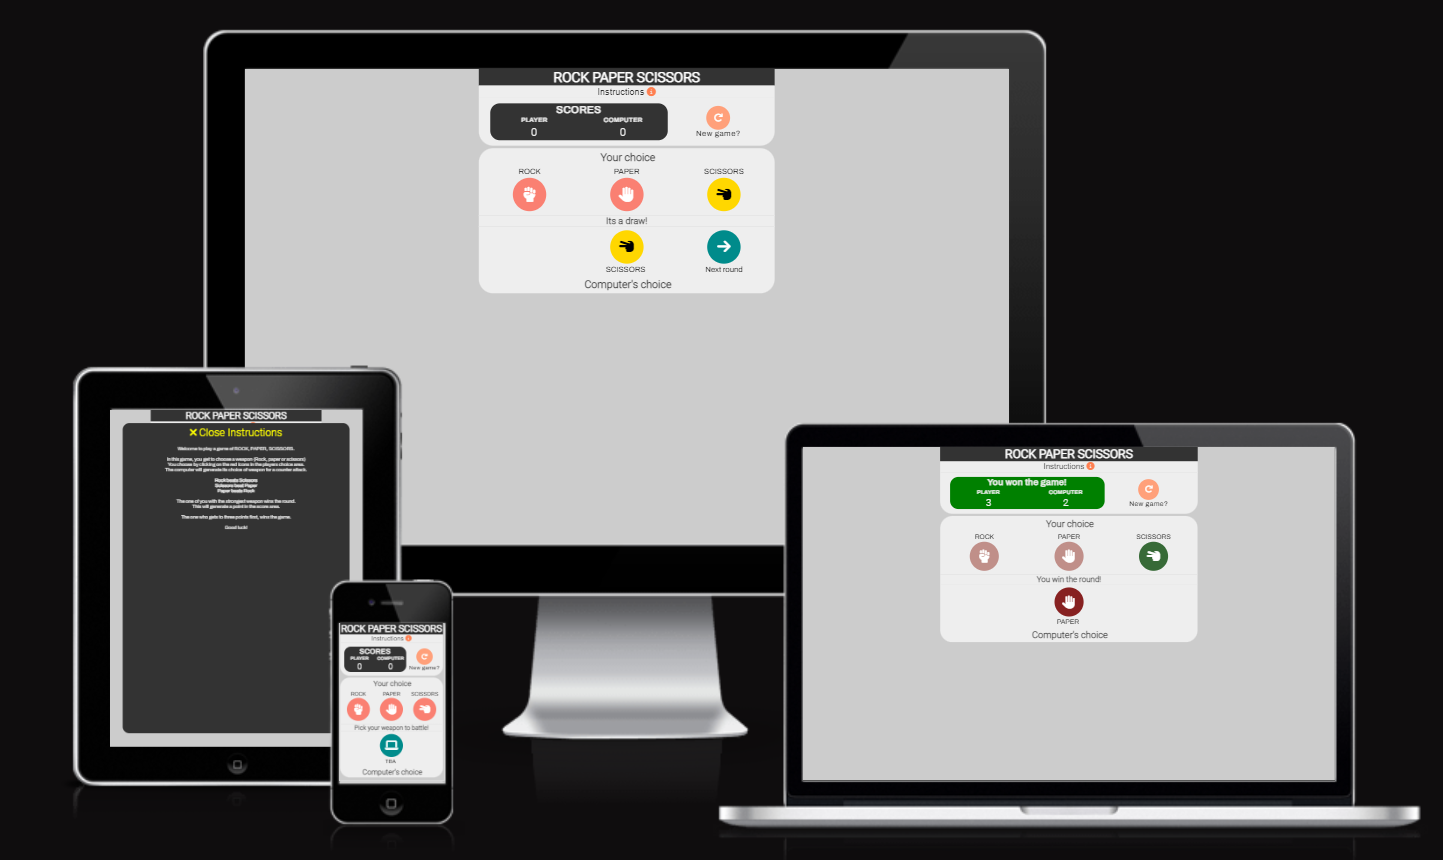
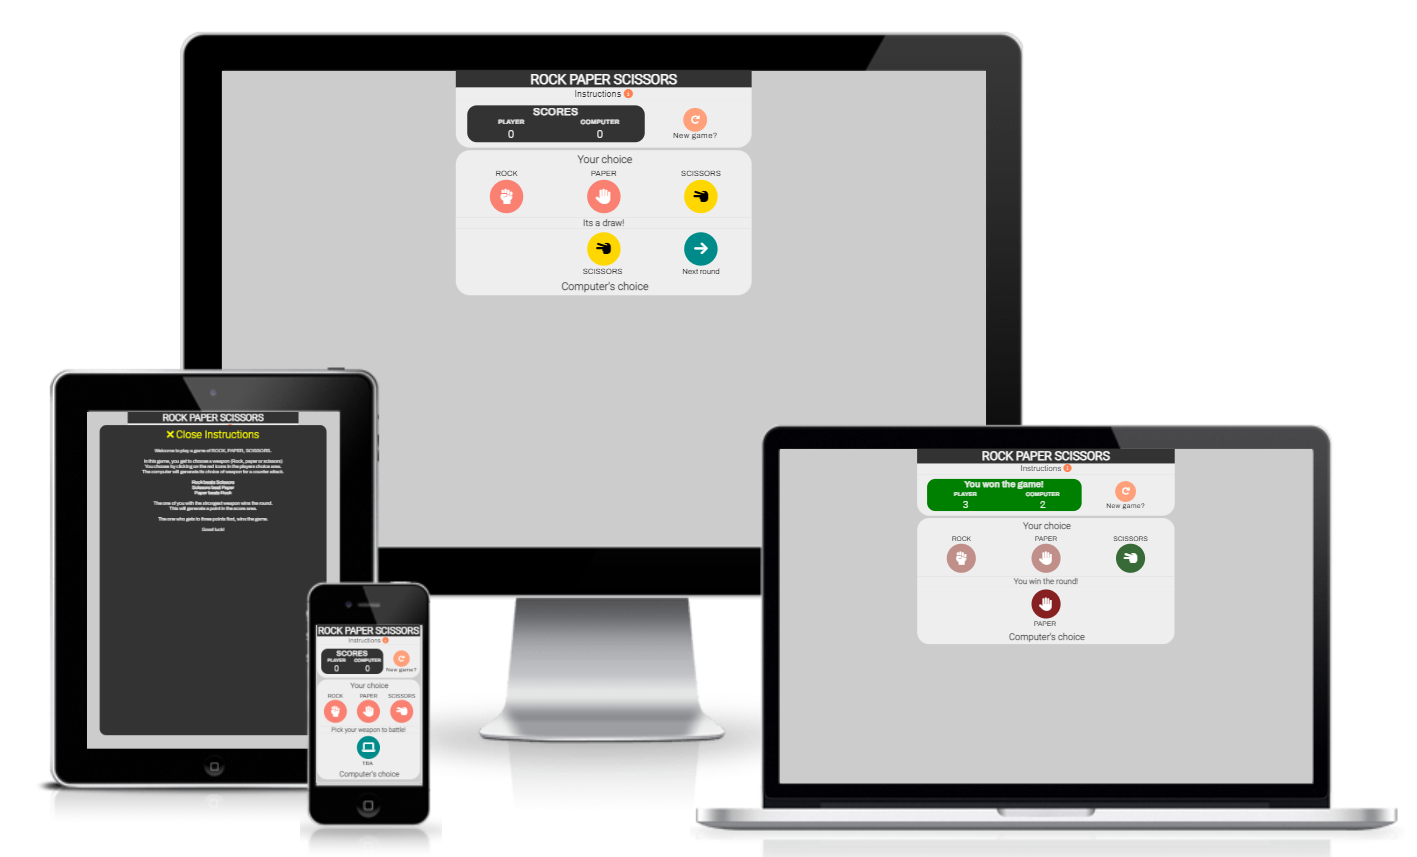
Added section content to readme.

diff --git a/README.md b/README.md
@@ -1,49 +1,55 @@
-# Love Running
+# Rock Paper Scissors
 
-In this section, you will include one or two paragraphs providing an overview of your project. Essentially, this part is your sales pitch. At this stage, you should have a name for your project so use it! Don’t introduce the project as a Portfolio project for the diploma. In this section, describe what the project hopes to accomplish, who it is intended to target and how it will be useful to the target audience. 
+Rock paper scissors is a site that aims to provide users with a cheat safe way of playing rock paper scissors. Mental games and trying to cheat through delaying the reveal of the chosen weapon are effectively eradicated when playing a pseudo-random algorithm. Users who need to settle a score or make a choice can use the website and rely on true 50/50 probability, while still having a fun and colored experience.
 
-For example; Love Running is a site that hopes to help keep people motivated to meet up for runs on a regular basis in Dublin, Ireland. The site will be targeted toward runners who are looking for a way to socialise and keep themselves fit. Love Running will be useful for runners to see exactly when and where they should be to join the running club. 
+With the sites colorful responses and screenupdates, users can hover over the screen together and bite their nails as they face off with computerized lady luck.
 
-![Responsice Mockup](https://github.com/lucyrush/readme-template/blob/master/media/love_running_mockup.png)
+![Responsice Mockup](https://github.com/jensbrauer/rockpaperscissors/blob/main/docs/readme_images/screenmockup.PNG)
 
 ## Features 
 
-In this section, you should go over the different parts of your project, and describe each in a sentence or so. You will need to explain what value each of the features provides for the user, focusing on who this website is for, what it is that they want to achieve and how your project is the best way to help them achieve these things.
+  - The site is built in greyscale with only interactive elements displayed in color, in order to effectively direct the users attention to features that can be activated.
 
 ### Existing Features
 
-- __Navigation Bar__
+- __The landing page instructions__
 
-  - Featured on all three pages, the full responsive navigation bar includes links to the Logo, Home page, Gallery and Sign Up page and is identical in each page to allow for easy navigation.
-  - This section will allow the user to easily navigate from page to page across all devices without having to revert back to the previous page via the ‘back’ button. 
+  - First of users are presented with instructions on the rules of rock, paper, scissors, as well as the gameflow on this particular site. 
+  - This ensures that all users enter the game on equal terms and understanding of how a winner/looser will be determined.
+  - The "close-instructions" button is displayed in yellow to show users how to proceed to the game when ready.
+  
 
-![Nav Bar](https://github.com/lucyrush/readme-template/blob/master/media/love_running_nav.png)
+![Landing Page](#)
 
-- __The landing page image__
+- __Header__
 
-  - The landing includes a photograph with text overlay to allow the user to see exactly which location this site would be applicable to. 
-  - This section introduces the user to Love Running with an eye catching animation to grab their attention
+  - The header is built to effectively display the purpose of this one-page site with the title ROCK PAPER SCISSORS clearly stated in black and white. 
+  - It also provides a small button with a link back to the Instructions. This is mainly in black and white theme not to draw unnecessary attention, but with an orange info-icon and an on-hover css feature in order to convey the interactivity to the user.
 
-![Landing Page](https://github.com/lucyrush/readme-template/blob/master/media/love_running_landing.png)
+![Header](#)
 
-- __Club Ethos Section__
+- __Score Card__
 
-  - The club ethos section will allow the user to see the benefits of joining the Love Running meetups, as well as the benefits of running overall. 
-  - This user will see the value of signing up for the Love Running meetups. This should encourage the user to consider running as their form of exercise. 
+  - The Score Card section allows the user to monitor the progression of the game. It's default styling is in greyscale, and the table displaying the scores light up in green or red color when game is over to alert the user to the end results.
+  - Next to the score table is an interactive element colored in a pale orange color that enables the user to start a new game at any point in the game flow.
 
-![Club Ethos](https://github.com/lucyrush/readme-template/blob/master/media/love_running_ethos.png)
+![Score Card](#)
 
-- __Meetup Times section__
+- __Game Section__ 
 
-  - This section will allow the user to see exactly when the meetups will happen, where they will be located and how long the run will be in kilometers. 
-  - This section will be updated as these times change to keep the user up to date. 
+  - The game section is where users can interact with the game flow itself.
+#### Players Section
+  - Clearly displaying the interactive elements in another warm orange color that expand on hover. The functionality of the interactive elements are also clarified with associated text-elements and icons that should remind anyone familiar with the game of the hand signs normaly used in real life. Furthermore, the headings guide the user to understand where their choice should be inputed.
 
-![Meetup Times](https://github.com/lucyrush/readme-template/blob/master/media/love_running_times.png)
+#### Message line
+  - To the bottom right of the game-section, a "next-round" button pops at the end of a round before game is over. In order to allow the user to initiate next round at will instead of automatically.
+  
+#### Computers Section
+  - Underneath, a computers choice section is interconnected but with a colder blue/green color on no on-hover effect. It is displayed with the laptop icon and a "To Be Announced" text tag as well as a "Computers Choice", to show the user that the oponent's(the computer's) respons will be displayed there.
+  - To the bottom right of the game-section, a "next-round" button pops at the end of a round before game is over. In order to allow the user to initiate next round at will instead of automatically.
 
-- __The Footer__ 
-
-  - The footer section includes links to the relevant social media sites for Love Running. The links will open to a new tab to allow easy navigation for the user. 
-  - The footer is valuable to the user as it encourages them to keep connected via social media
+  
+  
 
 ![Footer](https://github.com/lucyrush/readme-template/blob/master/media/love_running_footer.png)
 
@@ -67,6 +73,8 @@ In addition, you may also use this section to discuss plans for additional featu
 ### Features Left to Implement
 
 - Another feature idea
+- Warning message to "start new game button"
+
 
 ## Testing 
 
